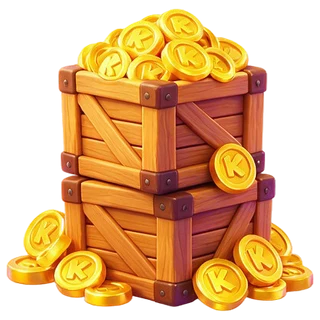
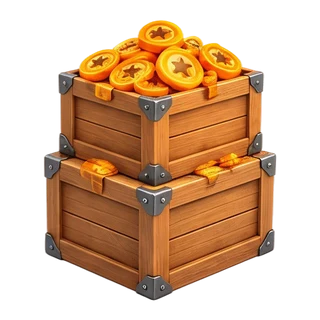
Coin tiers: our coin, ten steps, a CS2 case and a sea container, softer look
The pictures are redrawn with the site's own coin (orange face, pale ring,
dark star), in a softer style (diffused light, satin surfaces). Ten steps
about x2.5 apart instead of six x10 apart: coin, stack, heap, mound, sack,
a CS2-style hard case, crates, a pallet, a van, an open sea container.
A little more air around each so tall ones clear the card's title.

diff --git a/app/components/ui/CoinStack.vue b/app/components/ui/CoinStack.vue
@@ -1,23 +1,35 @@
 <script setup lang="ts">
 /*
- * Balance coins as a piece of the stake, drawn as a skin is: ItemArt with the gold rarity, one picture per order of
- * the amount — a coin (under 10), a pile (under 100), a sack (under 1 000), crates (under 10 000), a van (under
- * 100 000), a container (beyond). Same morph as the skins (the new picture flows in over the old one, no gap), the
- * same float on big cards. All six are preloaded so a tier change never waits for the network. Size is the old coin
- * diameter: the art is 1.56× it, so 96 lands on the 150 a big skin uses.
+ * Balance coins as a piece of the stake, drawn as a skin is: ItemArt with the gold rarity, one picture of our coin
+ * per step of the amount, about ×2.5 apart so it changes often — a coin, a stack, a heap, a mound, a sack, a CS2-style case,
+ * crates, a pallet, a van, a sea container. Same morph as the skins (the new picture flows in over the old one, no
+ * gap), the same float on big cards. All ten are preloaded so a step never waits for the network. Size is the old
+ * coin diameter: the art is 1.56× it, so 96 lands on the 150 a big skin uses.
  */
 const props = withDefaults(defineProps<{ size?: number; amount?: number }>(), { size: 40 })
 
-const TIERS = ['coin', 'pile', 'sack', 'crates', 'van', 'container'] as const
-const src = (t: (typeof TIERS)[number]) => `/img/coins/${t}.webp`
+/** Each tier holds amounts below its `under` (in coins); the last one has no ceiling */
+const TIERS = [
+  { name: 'coin', under: 5 },
+  { name: 'stack', under: 15 },
+  { name: 'heap', under: 40 },
+  { name: 'mound', under: 100 },
+  { name: 'sack', under: 250 },
+  { name: 'case', under: 600 },
+  { name: 'crates', under: 1500 },
+  { name: 'pallet', under: 4000 },
+  { name: 'van', under: 10000 },
+  { name: 'container', under: Infinity },
+] as const
+const src = (name: string) => `/img/coins/${name}.webp`
 const tier = computed(() => {
   const coins = Math.max(0, (props.amount ?? 0) / 100)
-  return TIERS[Math.min(TIERS.length - 1, Math.max(0, Math.floor(Math.log10(Math.max(1, coins)))))]!
+  return TIERS.find((t) => coins < t.under)!.name
 })
 const art = computed(() => Math.round(props.size * 1.56))
 
 onMounted(() => {
-  for (const t of TIERS) new Image().src = src(t)
+  for (const t of TIERS) new Image().src = src(t.name)
 })
 </script>
 
